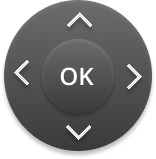
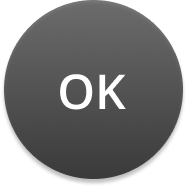
solution trouvé

diff --git a/test.html b/test.html
@@ -1,0 +1,120 @@
+<!DOCTYPE html>
+<html lang="fr">
+<head>
+  <meta charset="UTF-8">
+  <meta name="viewport" content="width=device-width, initial-scale=1.0">
+  <title>Télécommande Responsive</title>
+  <style>
+    * {
+      box-sizing: border-box;
+      margin: 0;
+      padding: 0;
+    }
+
+    body, html {
+      height: 100vh;
+      width: 100vw;
+      display: flex;
+      justify-content: center;
+      align-items: center;
+      background-color: #3A3A3A;
+    }
+
+    .remote {
+      position: relative;
+      width: 100%;
+      max-width: 350px;
+      aspect-ratio: 1/2;
+    }
+
+    .remote img.telecommande-bg {
+      width: 100%;
+      height: 100%;
+      object-fit: contain;
+    }
+
+    .btn {
+      position: absolute;
+    }
+
+    .power-off { top: 6%; left: 32%; transform: translateX(-50%); width: 16%; }
+    .power-on  { top: 6%; left: 68%; transform: translateX(-50%); width: 16%; }
+    .home      { top: 17%; left: 50%; transform: translateX(-50%); width: 14%; }
+    .mute      { top: 25%; left: 50%; transform: translateX(-50%); width: 14%; }
+
+    .chaine    { top: 14%; left: 62%; width: 12%; }
+    .chanup    { top: 16%; left: 64%; width: 9%; }
+    .chandown  { top: 28%; left: 64%; width: 7%; }
+
+    .volume     { top: 14%; left: 26%; width: 12%; }
+    .volup     { top: 16%; left: 27%; width: 10%; }
+    .voldown   { top: 27%; left: 26%; width: 12%; }
+
+    .rond-ok    { top: 35%; left: 50%; transform: translateX(-50%); width: 44%; z-index: 1; }
+    .ok        { top: 39%; left: 50%; transform: translateX(-50%); width: 27%; z-index: 2; }
+    .arrow-up  { top: 35%; left: 50%; transform: translateX(-50%) rotate(90deg); width: 10%; }
+    .arrow-down{ top: 44%; left: 50%; transform: translateX(-50%) rotate(-90deg); width: 10%; }
+    .arrow-left{ top: 39%; left: 40%; transform: translateX(-50%) rotate(0deg); width: 10%; }
+    .arrow-right{ top: 39%; left: 60%; transform: translateX(-50%) rotate(180deg); width: 10%; }
+
+    .shortcut1 { top: 57%; left: 32%; transform: translateX(-50%); width: 14%; }
+    .shortcut2 { top: 57%; left: 68%; transform: translateX(-50%); width: 14%; }
+
+    .num1 { top: 65%; left: 32%; transform: translateX(-50%); width: 16%; }
+    .num2 { top: 65%; left: 50%; transform: translateX(-50%); width: 16%; }
+    .num3 { top: 65%; left: 68%; transform: translateX(-50%); width: 16%; }
+    .num4 { top: 72%; left: 32%; transform: translateX(-50%); width: 16%; }
+    .num5 { top: 72%; left: 50%; transform: translateX(-50%); width: 16%; }
+    .num6 { top: 72%; left: 68%; transform: translateX(-50%); width: 16%; }
+    .num7 { top: 79%; left: 32%; transform: translateX(-50%); width: 16%; }
+    .num8 { top: 79%; left: 50%; transform: translateX(-50%); width: 16%; }
+    .num9 { top: 79%; left: 68%; transform: translateX(-50%); width: 16%; }
+    .num0 { top: 86%; left: 50%; transform: translateX(-50%); width: 16%; }
+  </style>
+</head>
+<body>
+  <div class="remote">
+    <img src="assets/images/fond.png" alt="télécommande" class="telecommande-bg">
+    <img src="assets/images/power-off.png" class="btn power-off" onclick="sendCommand('power_off')">
+    <img src="assets/images/power-on.png"  class="btn power-on" onclick="sendCommand('power_on')">
+    <img src="assets/images/home.png"      class="btn home" onclick="sendCommand('home')">
+    <img src="assets/images/mute.png"      class="btn mute" onclick="sendCommand('mute')">
+
+     <img src="assets/images/chaine.png" class="btn chaine">
+    <img src="assets/images/chanup.png" class="btn chanup" onclick="sendCommand('chanup')">
+    <img src="assets/images/chandown.png" class="btn chandown" onclick="sendCommand('chandown')">
+
+        <img src="assets/images/volume.png" class="btn volume">
+    <img src="assets/images/volup.png" class="btn volup" onclick="sendCommand('volup')">
+    <img src="assets/images/voldown.png" class="btn voldown" onclick="sendCommand('voldown')">
+
+    <img src="assets/images/ok.png" class="btn ok" onclick="sendCommand('enter')">
+    <img src="assets/images/rond-ok.png" class="btn rond-ok">
+    <img src="" class="btn arrow-up" onclick="sendCommand('up')">
+    <img src="" class="btn arrow-down" onclick="sendCommand('down')">
+    <img src="" class="btn arrow-left" onclick="sendCommand('left')">
+    <img src="" class="btn arrow-right" onclick="sendCommand('right')">
+
+    <img src="assets/images/menu.png" class="btn shortcut1" onclick="sendCommand('shortcut1')">
+    <img src="assets/images/info.png" class="btn shortcut2" onclick="sendCommand('shortcut2')">
+
+    <img src="assets/images/1.png" class="btn num1" onclick="sendCommand('1')">
+    <img src="assets/images/2.png" class="btn num2" onclick="sendCommand('2')">
+    <img src="assets/images/3.png" class="btn num3" onclick="sendCommand('3')">
+    <img src="assets/images/4.png" class="btn num4" onclick="sendCommand('4')">
+    <img src="assets/images/5.png" class="btn num5" onclick="sendCommand('5')">
+    <img src="assets/images/6.png" class="btn num6" onclick="sendCommand('6')">
+    <img src="assets/images/7.png" class="btn num7" onclick="sendCommand('7')">
+    <img src="assets/images/8.png" class="btn num8" onclick="sendCommand('8')">
+    <img src="assets/images/9.png" class="btn num9" onclick="sendCommand('9')">
+    <img src="assets/images/0.png" class="btn num0" onclick="sendCommand('0')">
+  </div>
+
+  <script>
+    function sendCommand(cmd) {
+      console.log("Commande envoyée :", cmd);
+    }
+  </script>
+    <script src="script2.js"></script>
+</body>
+</html>
